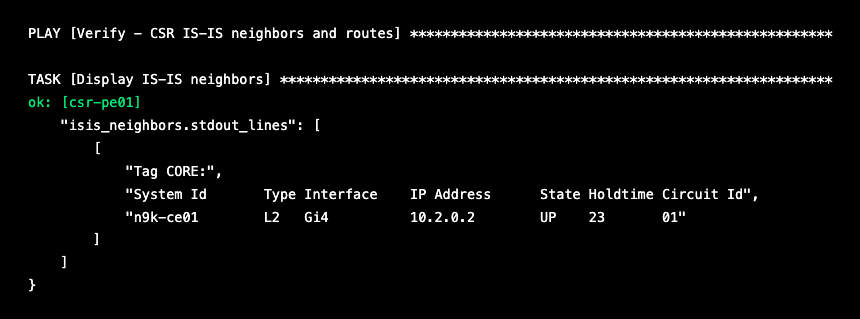
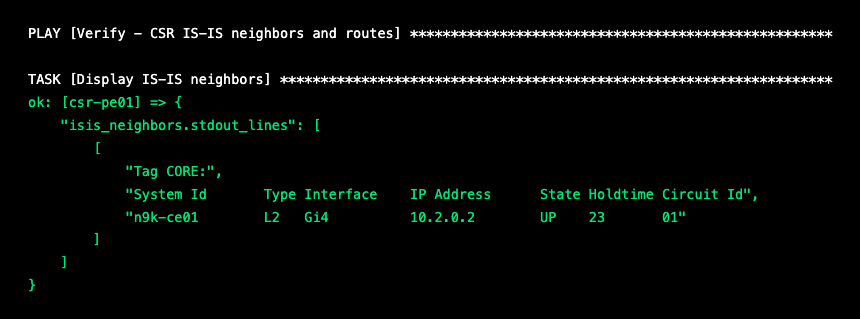
Fix task2 verify/ping images: ok block content green not white

diff --git a/images/task2-ping-output.html b/images/task2-ping-output.html
@@ -33,26 +33,26 @@
 <pre><span class="wh">PLAY [Test - Linux clients ping CSR PE loopback] **************************************************</span>
 
 <span class="wh">TASK [Show ping result] ***************************************************************************</span>
-<span class="ok">ok: [linux-client1]</span> =&gt; {
-    <span class="wh">"ping_result.stdout_lines": [</span>
-        <span class="wh">"PING 192.168.10.11 (192.168.10.11) 56(84) bytes of data.",</span>
-        <span class="wh">"64 bytes from 192.168.10.11: icmp_seq=2 ttl=254 time=4.99 ms",</span>
-        <span class="wh">"64 bytes from 192.168.10.11: icmp_seq=3 ttl=254 time=4.16 ms",</span>
-        <span class="wh">"",</span>
-        <span class="wh">"--- 192.168.10.11 ping statistics ---",</span>
-        <span class="wh">"3 packets transmitted, 2 received, 33.3333% packet loss, time 2014ms"</span>
-    <span class="wh">]</span>
-<span class="wh">}</span>
+<span class="ok">ok: [linux-client1] =&gt; {
+    "ping_result.stdout_lines": [
+        "PING 192.168.10.11 (192.168.10.11) 56(84) bytes of data.",
+        "64 bytes from 192.168.10.11: icmp_seq=2 ttl=254 time=4.99 ms",
+        "64 bytes from 192.168.10.11: icmp_seq=3 ttl=254 time=4.16 ms",
+        "",
+        "--- 192.168.10.11 ping statistics ---",
+        "3 packets transmitted, 2 received, 33.3333% packet loss, time 2014ms"
+    ]
+}</span>
 
 <span class="wh">PLAY RECAP ****************************************************************************************</span>
-<span class="chg">csr-pe01</span>                   <span class="wh">: ok=9    changed=4    unreachable=0    failed=0</span>
-<span class="chg">csr-pe02</span>                   <span class="wh">: ok=9    changed=4    unreachable=0    failed=0</span>
-<span class="chg">linux-client1</span>              <span class="wh">: ok=3    changed=2    unreachable=0    failed=0</span>
-<span class="chg">linux-client2</span>              <span class="wh">: ok=3    changed=2    unreachable=0    failed=0</span>
-<span class="chg">linux-client3</span>              <span class="wh">: ok=3    changed=2    unreachable=0    failed=0</span>
-<span class="chg">linux-client4</span>              <span class="wh">: ok=3    changed=2    unreachable=0    failed=0</span>
-<span class="chg">n9k-ce01</span>                   <span class="wh">: ok=10   changed=6    unreachable=0    failed=0</span>
-<span class="chg">n9k-ce02</span>                   <span class="wh">: ok=10   changed=6    unreachable=0    failed=0</span></pre>
+<span class="chg">csr-pe01                   : ok=9    changed=4    unreachable=0    failed=0
+csr-pe02                   : ok=9    changed=4    unreachable=0    failed=0
+linux-client1              : ok=3    changed=2    unreachable=0    failed=0
+linux-client2              : ok=3    changed=2    unreachable=0    failed=0
+linux-client3              : ok=3    changed=2    unreachable=0    failed=0
+linux-client4              : ok=3    changed=2    unreachable=0    failed=0
+n9k-ce01                   : ok=10   changed=6    unreachable=0    failed=0
+n9k-ce02                   : ok=10   changed=6    unreachable=0    failed=0</span></pre>
 </div>
 </body>
 </html>

diff --git a/images/task2-verify-output.html b/images/task2-verify-output.html
@@ -33,37 +33,37 @@
 <pre><span class="wh">PLAY [Verify - IS-IS neighbors and routes] ********************************************************</span>
 
 <span class="wh">TASK [Display IS-IS neighbors] ********************************************************************</span>
-<span class="ok">ok: [n9k-ce01]</span> =&gt; {
-    <span class="wh">"isis_neighbors.stdout_lines": [</span>
-        <span class="wh">[</span>
-            <span class="wh">"IS-IS process: CORE VRF: default",</span>
-            <span class="wh">"IS-IS adjacency database:",</span>
-            <span class="wh">"System ID       SNPA              Level  State  Hold Time  Interface",</span>
-            <span class="wh">"csr-pe01        N/A               2      UP     00:00:27   Ethernet1/1"</span>
-        <span class="wh">]</span>
-    <span class="wh">]</span>
-<span class="wh">}</span>
-<span class="ok">ok: [n9k-ce02]</span> =&gt; {
-    <span class="wh">"isis_neighbors.stdout_lines": [</span>
-        <span class="wh">[</span>
-            <span class="wh">"IS-IS process: CORE VRF: default",</span>
-            <span class="wh">"IS-IS adjacency database:",</span>
-            <span class="wh">"System ID       SNPA              Level  State  Hold Time  Interface",</span>
-            <span class="wh">"csr-pe02        N/A               2      UP     00:00:27   Ethernet1/1"</span>
-        <span class="wh">]</span>
-    <span class="wh">]</span>
-<span class="wh">}</span>
+<span class="ok">ok: [n9k-ce01] =&gt; {
+    "isis_neighbors.stdout_lines": [
+        [
+            "IS-IS process: CORE VRF: default",
+            "IS-IS adjacency database:",
+            "System ID       SNPA              Level  State  Hold Time  Interface",
+            "csr-pe01        N/A               2      UP     00:00:27   Ethernet1/1"
+        ]
+    ]
+}</span>
+<span class="ok">ok: [n9k-ce02] =&gt; {
+    "isis_neighbors.stdout_lines": [
+        [
+            "IS-IS process: CORE VRF: default",
+            "IS-IS adjacency database:",
+            "System ID       SNPA              Level  State  Hold Time  Interface",
+            "csr-pe02        N/A               2      UP     00:00:27   Ethernet1/1"
+        ]
+    ]
+}</span>
 
 <span class="wh">TASK [Display IS-IS routes] ***********************************************************************</span>
-<span class="ok">ok: [n9k-ce01]</span> =&gt; {
-    <span class="wh">"isis_routes.stdout_lines": [</span>
-        <span class="wh">[</span>
-            <span class="wh">"IP Route Table for VRF \"default\"",</span>
-            <span class="wh">"192.168.10.11/32, ubest/mbest: 1/0",</span>
-            <span class="wh">"    *via 10.2.0.1, Eth1/1, [115/40], isis-CORE, L2"</span>
-        <span class="wh">]</span>
-    <span class="wh">]</span>
-<span class="wh">}</span></pre>
+<span class="ok">ok: [n9k-ce01] =&gt; {
+    "isis_routes.stdout_lines": [
+        [
+            "IP Route Table for VRF \"default\"",
+            "192.168.10.11/32, ubest/mbest: 1/0",
+            "    *via 10.2.0.1, Eth1/1, [115/40], isis-CORE, L2"
+        ]
+    ]
+}</span></pre>
 </div>
 </body>
 </html>

diff --git a/images/task2-csr-verify-output.html b/images/task2-csr-verify-output.html
@@ -33,15 +33,15 @@
 <pre><span class="wh">PLAY [Verify - CSR IS-IS neighbors and routes] ****************************************************</span>
 
 <span class="wh">TASK [Display IS-IS neighbors] ********************************************************************</span>
-<span class="ok">ok: [csr-pe01]</span> =&gt; {
-    <span class="wh">"isis_neighbors.stdout_lines": [</span>
-        <span class="wh">[</span>
-            <span class="wh">"Tag CORE:",</span>
-            <span class="wh">"System Id       Type Interface    IP Address      State Holdtime Circuit Id",</span>
-            <span class="wh">"n9k-ce01        L2   Gi4          10.2.0.2        UP    23       01"</span>
-        <span class="wh">]</span>
-    <span class="wh">]</span>
-<span class="wh">}</span></pre>
+<span class="ok">ok: [csr-pe01] =&gt; {
+    "isis_neighbors.stdout_lines": [
+        [
+            "Tag CORE:",
+            "System Id       Type Interface    IP Address      State Holdtime Circuit Id",
+            "n9k-ce01        L2   Gi4          10.2.0.2        UP    23       01"
+        ]
+    ]
+}</span></pre>
 </div>
 </body>
 </html>
